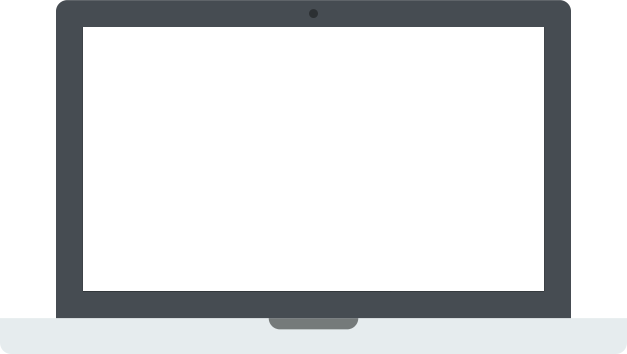
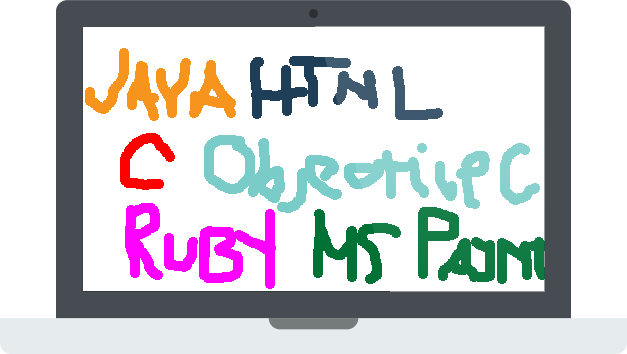
Updated laptop.png

Changed region(s): [[0.1818, 0.3729, 0.8788, 0.8079], [0.1212, 0.1243, 0.7273, 0.3418], [0.6667, 0.404, 0.697, 0.435]]

diff --git a/index.html b/index.html
@@ -14,16 +14,12 @@
     </head>
     <body>
     <section id="top" class="animated fadeIn">
-        <header class="">
             <div class="container">
                 <div class="row">
                     <div class="col-lg-12">
                         <img src="Images/me.svg" alt="Icon Image" class="profile-image img-responsive center-block"></img>
                     </div>
                 </div>
-            </div>
-        </header>
-        <div class="container">
             <div class="row">
                 <div class="col-md-12 col-sm-12">
                     <h2 class="im-joseph">
@@ -43,6 +39,13 @@
                     <figure>
                         <img src="Images/laptop.png" id="laptop" class="img-responsive center-block"></img>
                     </figure>
+                </div>
+            </div>
+            <div class="row">
+                <div class="col-lg-12">
+                    <h1 class="what-i-know-header">
+                        What I know!
+                    </h1>
                 </div>
             </div>
         </div>

diff --git a/css/styles.css b/css/styles.css
@@ -15,12 +15,18 @@ p.header-desc {
     font-weight: 400;
 }
 
+h1.what-i-know-header {
+    text-align: center;
+    color: #ffffff;
+    padding: 1em 0;
+}
+
 #top {
     background: #E0EbE8;
 }
 
 #what-i-know{
-    background: #fff;
+    background: #45b29a;
 }
 
 body {
@@ -28,6 +34,8 @@ body {
 }
 
 #laptop {
+    max-width: 500px;
+    margin: 0 auto;
     padding-top: 20px;   
 }
 
